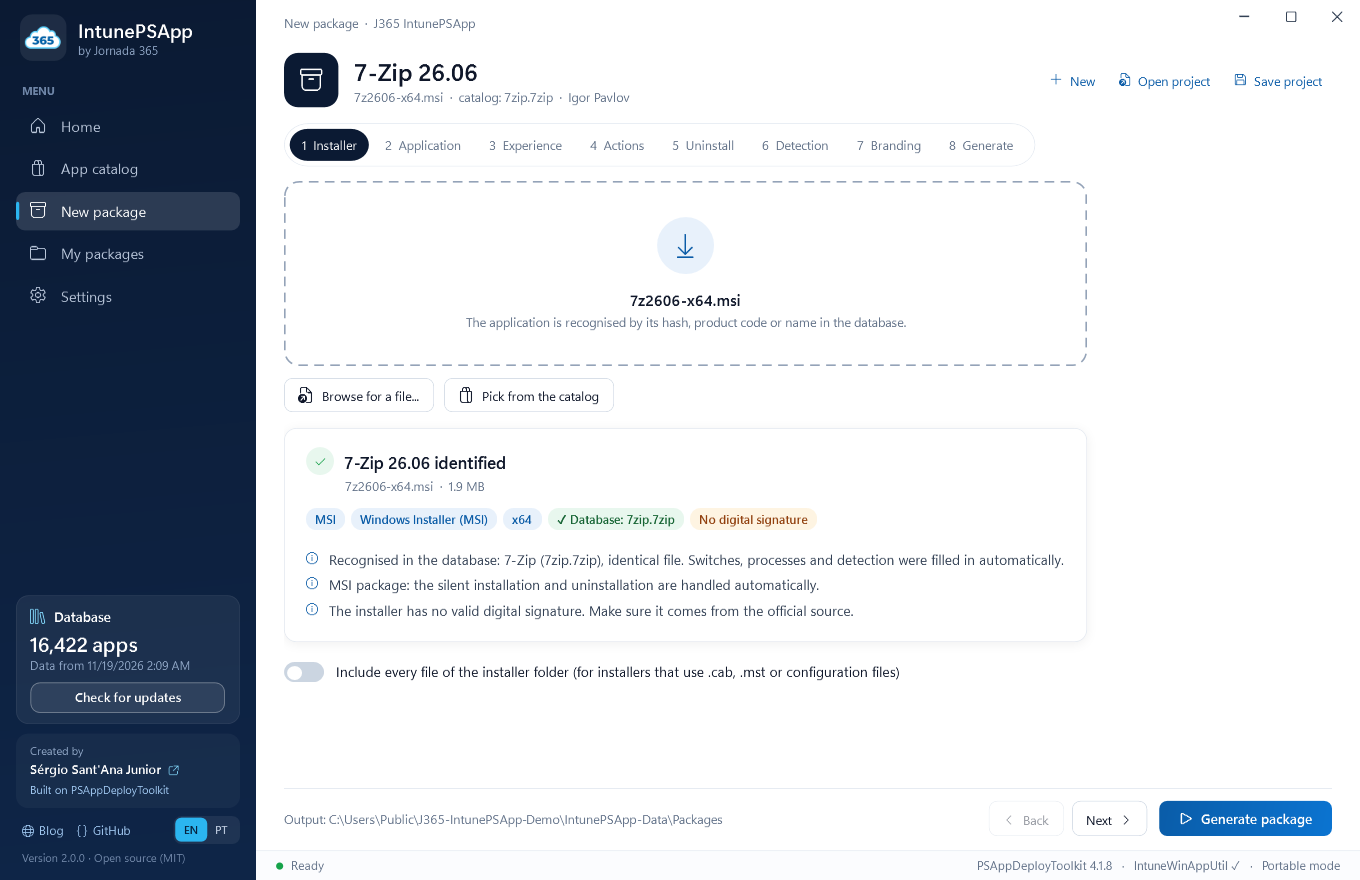
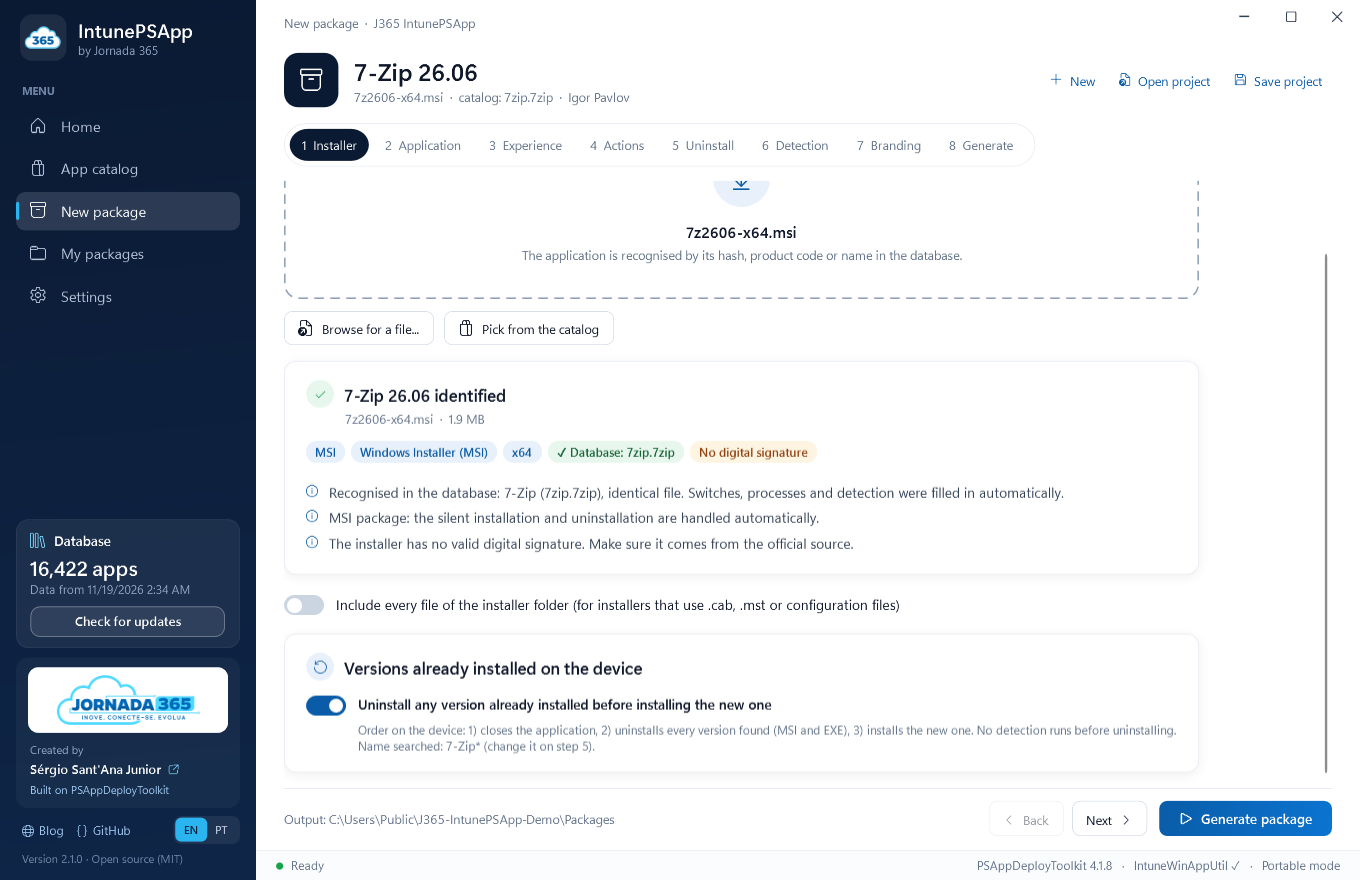
README and screenshots for 2.1
- README (English and Portuguese): what is new in 2.1, a section about the
  Windows Sandbox test (requirements, what it shows, what comes back, what it
  changes inside the sandbox), screen sizes, troubleshooting, the --sandbox
  switch and the Jornada 365 logo.
- Screenshots made again with 2.1 in both languages, from a demo folder with a
  neutral path. New: uninstall step and a 900 x 580 window. The result card
  shows the result of a real Windows Sandbox run of the 7-Zip package; the
  KeePassXC entries are demo projects (settings only, nothing built).
- A reopened package shows the result of its last Windows Sandbox test.
- Capture mode: steps taller than the window get a second capture ("-end").

diff --git a/src/IntunePSApp/Views/EditorView.xaml.cs b/src/IntunePSApp/Views/EditorView.xaml.cs
@@ -406,6 +406,15 @@ namespace J365.IntunePSApp.Views
             if (sender is RadioButton rb && int.TryParse(rb.Tag as string, out int i)) { _step = i; GoStep(i); }
         }
 
+        /// <summary>Scrolls the current step to its end. Returns false when the whole step already fits in the window.</summary>
+        public bool ScrollToEnd()
+        {
+            BodyScroll.UpdateLayout();
+            if (BodyScroll.ScrollableHeight < 1) return false;
+            BodyScroll.ScrollToEnd();
+            return true;
+        }
+
         private void Back_Click(object sender, RoutedEventArgs e) => GoStep(_step - 1);
         private void Next_Click(object sender, RoutedEventArgs e) => GoStep(_step + 1);
 
@@ -1039,6 +1048,17 @@ namespace J365.IntunePSApp.Views
             _sandboxTimer = null;
         }
 
+        /// <summary>A reopened package shows the result of its last sandbox test, when one was recorded (Sandbox\Results\result.json).</summary>
+        private void ShowLastSandboxResult(string packageFolder)
+        {
+            var result = SandboxService.ReadResult(packageFolder);
+            if (result?.Last == null) return;
+            _sandboxFolder = packageFolder;
+            _sandboxResult = result;
+            _sandboxClosed = true;
+            RefreshSandboxStatus();
+        }
+
         private void ResetSandboxStatus()
         {
             StopSandboxWatch();
@@ -1104,7 +1124,8 @@ namespace J365.IntunePSApp.Views
                 DropText.Text = string.IsNullOrEmpty(s.InstallerPath) ? T("Ed_DropHere") : Path.GetFileName(s.InstallerPath);
                 // A project inside a package folder brings the previous result back (commands, tests, publishing).
                 _last = PackageBuilder.TryLoadResult(path, s);
-                if (_last != null) ShowResult(_last); else ResultCard.Visibility = Visibility.Collapsed;
+                if (_last != null) { ShowResult(_last); ShowLastSandboxResult(_last.PackageFolder); }
+                else ResultCard.Visibility = Visibility.Collapsed;
                 main.Navigate("editor");
                 GoStep(_last != null ? ReviewStep : 1);
                 if (!string.IsNullOrEmpty(s.InstallerPath) && !File.Exists(s.InstallerPath)) main.Toast(T("Ed_ProjectMissingInstaller"), "warn");

diff --git a/src/IntunePSApp/SnapshotRunner.cs b/src/IntunePSApp/SnapshotRunner.cs
@@ -87,6 +87,8 @@ namespace J365.IntunePSApp
                 {
                     w.Editor.GoStep(i);
                     await Shot($"03-editor-{i + 1}");
+                    // Steps taller than the window: a second capture shows their last part.
+                    if (w.Editor.ScrollToEnd()) await Shot($"03-editor-{i + 1}-end");
                 }
                 if (App.HasArg("--snapshot-build"))
                 {

diff --git a/README.md b/README.md
@@ -24,6 +24,8 @@
 >
 > This project is **based on [PSAppDeployToolkit](https://psappdeploytoolkit.com)**, the open-source deployment framework: every package it generates is a standard PSAppDeployToolkit v4 package. J365 IntunePSApp is the friendly front end that writes the package for you.
 
+<p align="center"><a href="https://jornada365.cloud"><img src="docs/assets/j365-blog-logo.png" alt="Jornada 365" width="240"></a></p>
+
 ---
 
 ## What it does
@@ -37,6 +39,16 @@ You pick an application (from a database of 16,000+ apps, or your own `.msi` / `
 - the complete **PSAppDeployToolkit package**, so you can keep editing it by hand if you want.
 
 Anyone can use it: there is nothing to install, no script to write and no PowerShell knowledge required.
+
+## What is new in 2.1
+
+- **The Windows Sandbox test no longer looks frozen.** Inside Windows Sandbox a 2 MB MSI took about two minutes to install and a single click on the test window paused it. Both causes are handled: the same test now takes about half a minute, shows live progress and has a time limit.
+- **Windows Sandbox not installed?** The application says so and installs the Windows feature for you.
+- **The result of the test comes back to the application**: exit code, detection, time and logs.
+- **Versions already installed**: the option to uninstall whatever is on the device before installing is on the first step, and the generated script logs what it found and removed.
+- **The window adapts to the screen**, down to 900 x 580.
+
+Details in [Testing in Windows Sandbox](#testing-in-windows-sandbox), [Troubleshooting](#troubleshooting) and the [changelog](CHANGELOG.md). Upgrading: replace the executable; settings, packages and projects keep working.
 
 ## Download
 
@@ -67,7 +79,8 @@ Anyone can use it: there is nothing to install, no script to write and no PowerS
 | **Publish to Intune (preview)** | A generated `Publish-ToIntune.ps1` creates the app in your tenant with your own sign-in, without assignments. See [docs/INTUNE-PUBLISH.md](docs/INTUNE-PUBLISH.md). |
 | **English and Portuguese** | Switch the language at any time (sidebar or Settings). The generated instructions follow the same language. |
 | **Portable or installed** | Runs from any folder. Optionally installs for your user (Start menu, *Installed apps*) without administrator rights, and uninstalls cleanly. |
-| **Command line** | `--build`, `--setup`, `--update-catalog`, `--install`... for automation. |
+| **Any screen size** | The window fits small notebooks, 125-150 % scaling and remote sessions: icon-only sidebar and pages that reflow. |
+| **Command line** | `--build`, `--sandbox`, `--setup`, `--update-catalog`, `--install`... for automation. |
 
 ## How it works
 
@@ -75,18 +88,44 @@ Anyone can use it: there is nothing to install, no script to write and no PowerS
 
 <p align="center"><img src="docs/screenshots/en/catalog.png" alt="App catalog" width="88%"></p>
 
+The installer is identified (technology, silent switches, database match) and you decide right there what happens to **versions already installed on the device**: uninstall whatever is found, then install the new one.
+
+<p align="center"><img src="docs/screenshots/en/installer.png" alt="Installer identified and the option to uninstall versions already installed" width="88%"></p>
+
 **2. Customise** - experience, actions, dependencies, uninstall, detection and branding. Everything is filled in with sensible defaults.
 
 <p align="center"><img src="docs/screenshots/en/experience.png" alt="User experience with live preview" width="88%"></p>
 <p align="center"><img src="docs/screenshots/en/actions.png" alt="Dependencies and ready-made actions" width="88%"></p>
 
-**3. Generate and send to Intune** - the package is validated (script syntax, `.intunewin` integrity) and you get the commands, the detection script and the instructions.
+**3. Generate** - the package is validated (script syntax, `.intunewin` integrity) and you get the commands, the detection script and the instructions.
 
-<p align="center"><img src="docs/screenshots/en/generated.png" alt="Package ready for Intune" width="88%"></p>
+**4. Test in Windows Sandbox, then send to Intune** - one click installs the package in a disposable Windows and runs the detection rule. The result comes back to the same card.
+
+<p align="center"><img src="docs/screenshots/en/generated.png" alt="Package ready for Intune, with the result of the Windows Sandbox test" width="88%"></p>
 
 **Later** - the application tells you when a packaged app has a new version.
 
 <p align="center"><img src="docs/screenshots/en/packages.png" alt="My packages with update notice" width="88%"></p>
+
+## Testing in Windows Sandbox
+
+*Test in Sandbox* opens a disposable Windows, installs the package with the same command line Intune uses and runs the detection rule. Nothing changes on your computer.
+
+| | |
+|---|---|
+| **Requirements** | Windows 10/11 Pro, Enterprise or Education with the *Windows Sandbox* feature and hardware virtualisation enabled. When the feature is turned off, the application offers to install it (administrator permission, then a restart). Windows Home and Windows Server do not have it. |
+| **What you see in the sandbox** | A PowerShell window with the elapsed time and the last entry of the PSAppDeployToolkit log while the package runs, then `RESULT`. It stays open with four commands: `Test-Install`, `Test-Uninstall`, `Test-Detection` and `Show-Log`. |
+| **What comes back** | Exit code, detection and time on the result card; `result.json` and the logs in `Sandbox\Results` of the package. |
+| **What the test changes inside the sandbox** | It turns off the Smart App Control evaluation (it makes installers take minutes there) and QuickEdit in the test window (a click would pause it). Both only exist in that disposable Windows. |
+| **Time limit** | 60 minutes per run, the same default as Intune. A package that asks a question nobody answers is stopped and reported as failed. |
+| **Differences from Intune** | Intune installs as SYSTEM; the sandbox installs as its local administrator. Always finish with a pilot group. |
+| **Command line** | `J365.IntunePSApp.exe --sandbox "<package folder>"` |
+
+## Any screen size
+
+The window never opens larger than the screen and remembers its size. On small notebooks, 125-150 % scaling and remote sessions the sidebar keeps only its icons and every page reflows.
+
+<p align="center"><img src="docs/screenshots/en/compact.png" alt="The same result card in a 900 x 580 window" width="62%"></p>
 
 ## What is generated
 
@@ -121,6 +160,7 @@ In Intune (*Apps > Windows > Add > Windows app (Win32)*):
 ```text
 J365.IntunePSApp.exe [file]                                   open a project (project.json) or analyse an installer
 J365.IntunePSApp.exe --build <project.json|installer> [--out <folder>] [--native]
+J365.IntunePSApp.exe --sandbox <package folder>               test a generated package in Windows Sandbox
 J365.IntunePSApp.exe --setup                                  download and verify the dependencies
 J365.IntunePSApp.exe --update-catalog [--force]               update the application database
 J365.IntunePSApp.exe --install [--desktop-shortcut] [--quiet] install for the current user
@@ -151,6 +191,19 @@ The project is open source so you can **audit it, build it yourself, fork it or 
 - **Fork / rebrand / translate:** [docs/FORKING.md](docs/FORKING.md) lists the few places to change (name, links, logo, database URL) and how to add a language.
 - **How it is organised:** [docs/ARCHITECTURE.md](docs/ARCHITECTURE.md).
 - **Contributing:** [CONTRIBUTING.md](CONTRIBUTING.md). The quickest way to help is improving [`catalog/curated.json`](catalog/curated.json).
+
+## Troubleshooting
+
+| Symptom | What to do |
+|---|---|
+| The sandbox test stays on *Installing* for minutes (version 2.0) | Update to 2.1 and click *Test in Sandbox* again: packages generated by 2.0 get the new test script automatically. If you had clicked on the test window, press Enter in it. |
+| *Windows Sandbox is not enabled on this computer* | Choose *Install the feature now*, accept the Windows permission prompt and restart. By hand: *Turn Windows features on or off > Windows Sandbox*, or as administrator `dism /Online /Enable-Feature /FeatureName:Containers-DisposableClientVM /All`. Virtualisation (Intel VT-x / AMD-V) must be enabled in the firmware. |
+| *Windows Sandbox is already open* | Windows allows one sandbox at a time: close its window and test again. |
+| The sandbox test failed | *Open logs* on the result card, or `Show-Log` in the test window. Exit codes: `0`, `1707`, `3010`, `1641` are success; `1618` means another installation was running; `1602` means the user deferred or cancelled. |
+| Intune says *Installed* but the old version is still there | The detection rule has no version check, so the old version already counts as installed and Intune never runs the package. Turn on *Require a version equal to or higher than* in the Detection step (the review step warns about it). |
+| *Windows protected your PC* when starting the application | See [Download](#download): the executable is not code-signed. |
+
+Application logs: `IntunePSApp-Data\logs` next to the executable (portable) or `%LOCALAPPDATA%\J365\IntunePSApp\logs` (installed). On the devices, PSAppDeployToolkit writes by default to `C:\ProgramData\Microsoft\IntuneManagementExtension\Logs`.
 
 ## What was tested (and what was not)
 
@@ -201,6 +254,8 @@ Not affiliated with Microsoft or with the PSAppDeployToolkit team. See [NOTICE.m
 >
 > Este projeto foi **criado com base no [PSAppDeployToolkit](https://psappdeploytoolkit.com)**, o framework de implantação de código aberto: todo pacote gerado é um pacote padrão do PSAppDeployToolkit v4. O J365 IntunePSApp é a interface amigável que escreve o pacote para você.
 
+<p align="center"><a href="https://jornada365.cloud"><img src="docs/assets/j365-blog-logo.png" alt="Jornada 365" width="240"></a></p>
+
 ## O que ele faz
 
 Você escolhe um aplicativo (em um banco de dados com mais de 16.000 apps, ou o seu próprio `.msi` / `.exe`), responde a algumas perguntas e recebe tudo o que o Intune precisa:
@@ -212,6 +267,16 @@ Você escolhe um aplicativo (em um banco de dados com mais de 16.000 apps, ou o 
 - o **pacote PSAppDeployToolkit** completo, para continuar editando manualmente se quiser.
 
 Qualquer pessoa consegue usar: não há nada para instalar, nenhum script para escrever e não é preciso conhecer PowerShell.
+
+## Novidades da 2.1
+
+- **O teste no Windows Sandbox não parece mais travado.** Dentro do Windows Sandbox um MSI de 2 MB levava cerca de dois minutos para instalar, e um único clique na janela do teste o pausava. As duas causas foram tratadas: o mesmo teste agora leva cerca de meio minuto, mostra o progresso ao vivo e tem limite de tempo.
+- **Windows Sandbox não instalado?** O aplicativo avisa e instala o recurso do Windows para você.
+- **O resultado do teste volta para o aplicativo**: código de saída, detecção, tempo e logs.
+- **Versões já instaladas**: a opção de desinstalar o que houver no dispositivo antes de instalar está no primeiro passo, e o script gerado registra o que encontrou e removeu.
+- **A janela se ajusta à tela**, até 900 x 580.
+
+Detalhes em [Teste no Windows Sandbox](#teste-no-windows-sandbox), [Solução de problemas](#solução-de-problemas) e no [changelog](CHANGELOG.md). Para atualizar: substitua o executável; configurações, pacotes e projetos continuam funcionando.
 
 ## Download
 
@@ -242,7 +307,8 @@ Qualquer pessoa consegue usar: não há nada para instalar, nenhum script para e
 | **Publicar no Intune (prévia)** | Um `Publish-ToIntune.ps1` gerado cria o aplicativo no seu locatário com o seu próprio login, sem atribuições. Veja [docs/INTUNE-PUBLISH.md](docs/INTUNE-PUBLISH.md). |
 | **Inglês e português** | Troque o idioma a qualquer momento (barra lateral ou Configurações). As instruções geradas seguem o mesmo idioma. |
 | **Portátil ou instalado** | Roda de qualquer pasta. Se quiser, instala para o seu usuário (Menu Iniciar, *Aplicativos instalados*) sem precisar de administrador, e desinstala sem deixar resíduos. |
-| **Linha de comando** | `--build`, `--setup`, `--update-catalog`, `--install`... para automação. |
+| **Qualquer tamanho de tela** | A janela cabe em notebooks pequenos, escala de 125-150 % e sessões remotas: barra lateral só com ícones e páginas que se reorganizam. |
+| **Linha de comando** | `--build`, `--sandbox`, `--setup`, `--update-catalog`, `--install`... para automação. |
 
 ## Como funciona
 
@@ -250,18 +316,44 @@ Qualquer pessoa consegue usar: não há nada para instalar, nenhum script para e
 
 <p align="center"><img src="docs/screenshots/pt-BR/catalog.png" alt="Catálogo de aplicativos" width="88%"></p>
 
+O instalador é identificado (tecnologia, parâmetros silenciosos, correspondência no banco de dados) e ali mesmo você decide o que acontece com as **versões já instaladas no dispositivo**: desinstalar o que for encontrado e depois instalar a nova.
+
+<p align="center"><img src="docs/screenshots/pt-BR/installer.png" alt="Instalador identificado e a opção de desinstalar versões já instaladas" width="88%"></p>
+
 **2. Personalize** - experiência, ações, dependências, desinstalação, detecção e visual. Tudo já vem preenchido com padrões sensatos.
 
 <p align="center"><img src="docs/screenshots/pt-BR/experience.png" alt="Experiência do usuário com prévia" width="88%"></p>
 <p align="center"><img src="docs/screenshots/pt-BR/actions.png" alt="Dependências e ações prontas" width="88%"></p>
 
-**3. Gere e envie ao Intune** - o pacote é validado (sintaxe dos scripts, integridade do `.intunewin`) e você recebe os comandos, o script de detecção e as instruções.
+**3. Gere** - o pacote é validado (sintaxe dos scripts, integridade do `.intunewin`) e você recebe os comandos, o script de detecção e as instruções.
 
-<p align="center"><img src="docs/screenshots/pt-BR/generated.png" alt="Pacote pronto para o Intune" width="88%"></p>
+**4. Teste no Windows Sandbox e envie ao Intune** - um clique instala o pacote em um Windows descartável e executa a regra de detecção. O resultado volta para o mesmo cartão.
+
+<p align="center"><img src="docs/screenshots/pt-BR/generated.png" alt="Pacote pronto para o Intune, com o resultado do teste no Windows Sandbox" width="88%"></p>
 
 **Depois** - o aplicativo avisa quando um app empacotado tem versão nova.
 
 <p align="center"><img src="docs/screenshots/pt-BR/packages.png" alt="Meus pacotes com aviso de atualização" width="88%"></p>
+
+## Teste no Windows Sandbox
+
+*Testar no Sandbox* abre um Windows descartável, instala o pacote com a mesma linha de comando usada pelo Intune e executa a regra de detecção. Nada muda no seu computador.
+
+| | |
+|---|---|
+| **Requisitos** | Windows 10/11 Pro, Enterprise ou Education com o recurso *Área Restrita do Windows* (Windows Sandbox) e virtualização de hardware habilitada. Quando o recurso está desligado, o aplicativo oferece instalar (permissão de administrador e, depois, reiniciar). O Windows Home e o Windows Server não têm o recurso. |
+| **O que aparece no sandbox** | Uma janela do PowerShell com o tempo decorrido e a última linha do log do PSAppDeployToolkit enquanto o pacote roda, e depois `RESULT`. Ela fica aberta com quatro comandos: `Test-Install`, `Test-Uninstall`, `Test-Detection` e `Show-Log`. |
+| **O que volta** | Código de saída, detecção e tempo no cartão de resultado; `result.json` e os logs em `Sandbox\Results` do pacote. |
+| **O que o teste altera dentro do sandbox** | Desliga a avaliação do Smart App Control (ela faz os instaladores levarem minutos ali) e o QuickEdit da janela do teste (um clique a pausaria). As duas alterações só existem naquele Windows descartável. |
+| **Limite de tempo** | 60 minutos por execução, o mesmo padrão do Intune. Um pacote que faz uma pergunta sem resposta é interrompido e reportado como falha. |
+| **Diferenças em relação ao Intune** | O Intune instala como SYSTEM; o sandbox instala como o administrador local dele. Sempre finalize com um grupo piloto. |
+| **Linha de comando** | `J365.IntunePSApp.exe --sandbox "<pasta do pacote>"` |
+
+## Qualquer tamanho de tela
+
+A janela nunca abre maior que a tela e lembra o tamanho. Em notebooks pequenos, escala de 125-150 % e sessões remotas a barra lateral fica só com os ícones e todas as páginas se reorganizam.
+
+<p align="center"><img src="docs/screenshots/pt-BR/compact.png" alt="O mesmo cartão de resultado em uma janela de 900 x 580" width="62%"></p>
 
 ## O que é gerado
 
@@ -296,6 +388,7 @@ No Intune (*Aplicativos > Windows > Adicionar > Aplicativo do Windows (Win32)*):
 ```text
 J365.IntunePSApp.exe [arquivo]                                abre um projeto (project.json) ou analisa um instalador
 J365.IntunePSApp.exe --build <project.json|instalador> [--out <pasta>] [--native]
+J365.IntunePSApp.exe --sandbox <pasta do pacote>              testa um pacote gerado no Windows Sandbox
 J365.IntunePSApp.exe --setup                                  baixa e verifica as dependências
 J365.IntunePSApp.exe --update-catalog [--force]               atualiza o banco de dados de aplicativos
 J365.IntunePSApp.exe --install [--desktop-shortcut] [--quiet] instala para o usuário atual
@@ -326,6 +419,19 @@ O projeto é de código aberto para que você possa **auditar, compilar, fazer u
 - **Fork / mudar a marca / traduzir:** [docs/FORKING.md](docs/FORKING.md) lista os poucos lugares a alterar (nome, links, logo, endereço do banco de dados) e como adicionar um idioma.
 - **Como está organizado:** [docs/ARCHITECTURE.md](docs/ARCHITECTURE.md).
 - **Contribuir:** [CONTRIBUTING.md](CONTRIBUTING.md). A forma mais rápida de ajudar é melhorar o [`catalog/curated.json`](catalog/curated.json).
+
+## Solução de problemas
+
+| Sintoma | O que fazer |
+|---|---|
+| O teste no sandbox fica em *Installing* por minutos (versão 2.0) | Atualize para a 2.1 e clique em *Testar no Sandbox* novamente: os pacotes gerados pela 2.0 recebem o novo script de teste automaticamente. Se você tinha clicado na janela do teste, pressione Enter nela. |
+| *O Windows Sandbox não está ativo neste computador* | Escolha *Instalar o recurso agora*, aceite o pedido de permissão do Windows e reinicie. Manualmente: *Ativar ou desativar recursos do Windows > Área Restrita do Windows*, ou, como administrador, `dism /Online /Enable-Feature /FeatureName:Containers-DisposableClientVM /All`. A virtualização (Intel VT-x / AMD-V) precisa estar habilitada no firmware. |
+| *O Windows Sandbox já está aberto* | O Windows permite um sandbox por vez: feche a janela dele e teste de novo. |
+| O teste no sandbox falhou | *Abrir logs* no cartão de resultado, ou `Show-Log` na janela do teste. Códigos de saída: `0`, `1707`, `3010` e `1641` são sucesso; `1618` indica outra instalação em andamento; `1602` indica que o usuário adiou ou cancelou. |
+| O Intune mostra *Instalado*, mas a versão antiga continua lá | A regra de detecção não confere a versão, então a versão antiga já conta como instalada e o Intune nunca executa o pacote. Ative *Exigir versão igual ou superior a* no passo Detecção (o passo de revisão avisa sobre isso). |
+| *O Windows protegeu o computador* ao abrir o aplicativo | Veja [Download](#download-1): o executável não tem assinatura de código. |
+
+Logs do aplicativo: `IntunePSApp-Data\logs` ao lado do executável (portátil) ou `%LOCALAPPDATA%\J365\IntunePSApp\logs` (instalado). Nos dispositivos, o PSAppDeployToolkit grava por padrão em `C:\ProgramData\Microsoft\IntuneManagementExtension\Logs`.
 
 ## O que foi testado (e o que não foi)
 

diff --git a/docs/BUILDING.md b/docs/BUILDING.md
@@ -43,7 +43,7 @@ To use a database you built yourself: *Settings > Application database > Import 
 
 - **Long paths.** Windows cannot start an executable whose full path is longer than 260 characters. If `dotnet run` or `dotnet test` fails with a "file name too long" error, clone the repository into a shorter folder.
 - **Smart App Control.** On computers with Smart App Control turned on, Windows may block freshly built, unsigned executables. That protection cannot be configured per application; build and test on a computer (or virtual machine) where it is off.
-- **Development switches.** `--snapshot <folder>` renders every page to PNG files (it is how the screenshots of this repository are made); see `SnapshotRunner.cs`. The data folder can be redirected with the environment variable `J365_INTUNEPSAPP_DATA`.
+- **Development switches.** `--snapshot <folder>` renders every page to PNG files (it is how the screenshots of this repository are made); see `SnapshotRunner.cs`. `--snapshot-size 900x580` renders them at another window size (the window cannot be larger than the screen), and steps taller than the window get a second file ending in `-end`. The data folder can be redirected with the environment variable `J365_INTUNEPSAPP_DATA`: point it to a folder with a neutral path, because the output folder appears in the screenshots.
 - **Release.** Pushing a tag `vX.Y.Z` makes GitHub Actions run the tests, build the executable and publish the release with checksums, the source package and the provenance attestation.
 
 ---

diff --git a/CHANGELOG.md b/CHANGELOG.md
@@ -2,6 +2,12 @@
 
 All notable changes to J365 IntunePSApp. Versions follow [Semantic Versioning](https://semver.org).
 
+## Unreleased
+
+- A reopened package shows the result of its last Windows Sandbox test on the result card.
+- Documentation: new screenshots made with 2.1 (both languages), README sections about the Windows Sandbox test, screen sizes and troubleshooting.
+- Capture mode (`--snapshot`): steps taller than the window get a second capture of their last part.
+
 ## 2.1.0 - 2026-11-19
 
 ### Fixed
